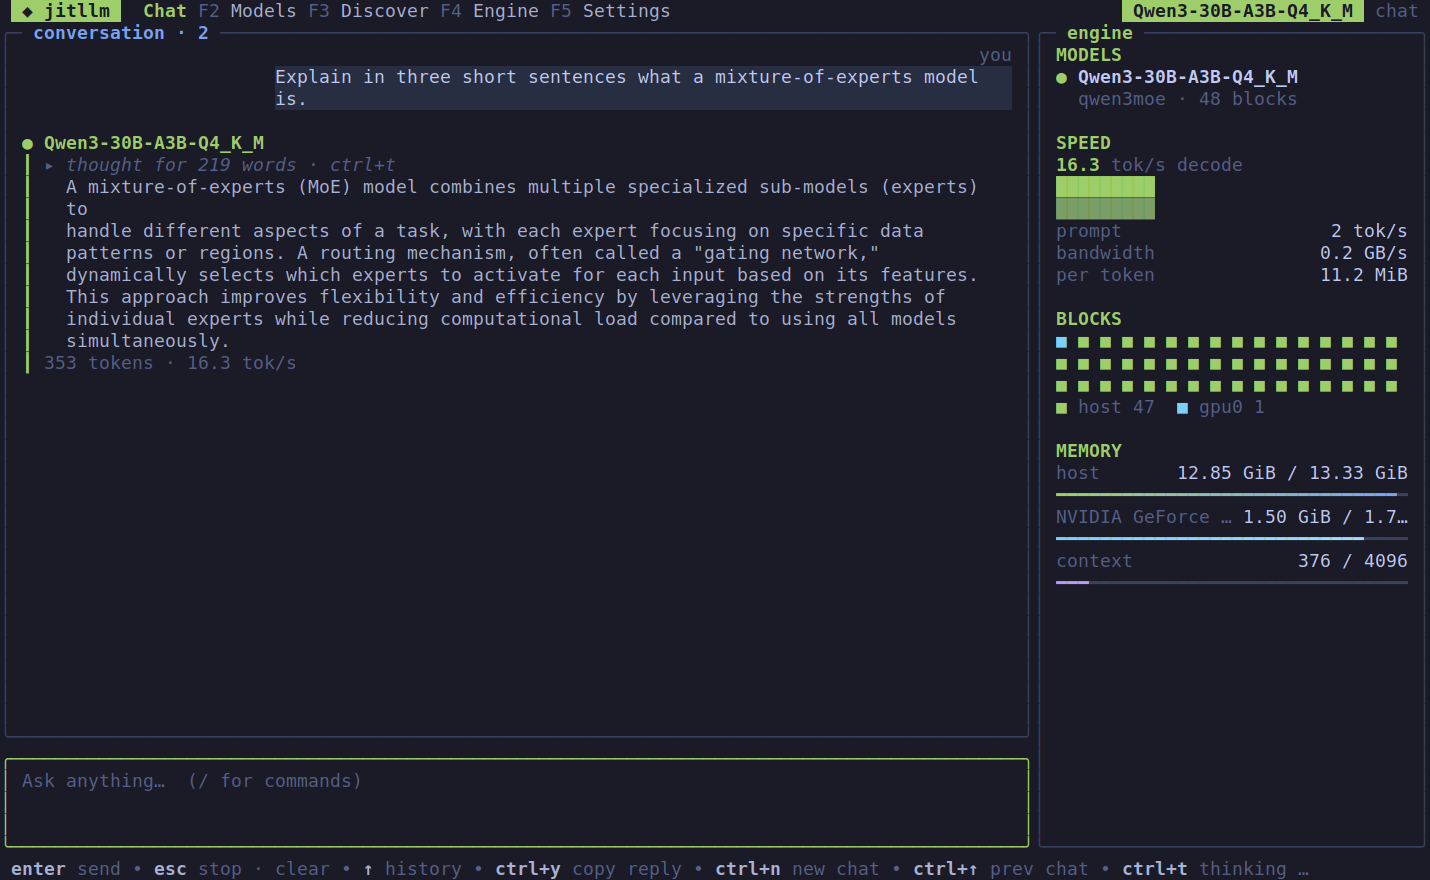
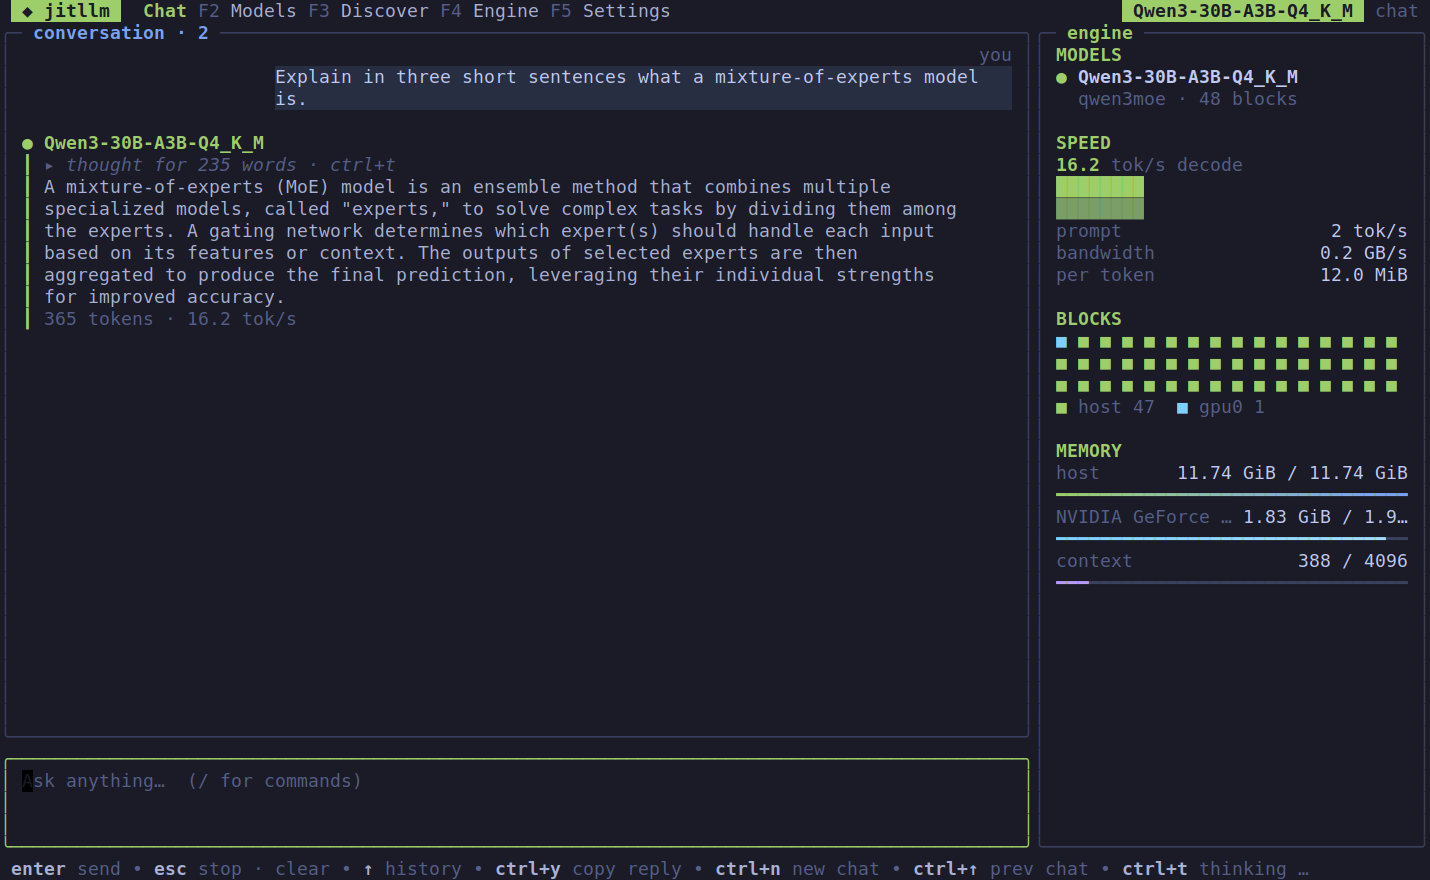
The terminal app's chat screenshot is retaken with the wrap fix

diff --git a/website/src/content/docs/docs/guides/terminal.md b/website/src/content/docs/docs/guides/terminal.md
@@ -35,7 +35,7 @@ The app paints its own background, so it looks the same whatever your terminal's
 
 <img src="/shots/tui-chat.png" width="1430" height="880" alt="The terminal app's Chat screen: a reply with its reasoning folded, and the engine panel with the decode rate, the blocks and memory" />
 
-The saved chats, the transcript, the prompt, and at the right the engine: the open models, the decode rate, which blocks run where and how full each memory is. Above, Qwen3-30B-A3B, a 30B mixture of experts, answers at 16.3 tokens a second on a laptop with a 4 GB GPU: one block on the card, the other 47 on the CPU, its experts paged from disk.
+The saved chats, the transcript, the prompt, and at the right the engine: the open models, the decode rate, which blocks run where and how full each memory is. Above, Qwen3-30B-A3B, a 30B mixture of experts, answers at 16.2 tokens a second on a laptop with a 4 GB GPU: one block on the card, the other 47 on the CPU, its experts paged from disk.
 
 | Key | Does |
 |---|---|

diff --git a/README.md b/README.md
@@ -108,7 +108,7 @@ and the conversation keeps its history across the move:
 ```
 
 <p align="center">
-<img src="website/public/shots/tui-chat.png" width="400" alt="The terminal app's Chat screen: Qwen3-30B-A3B answering at 16.3 tokens a second, the engine panel beside it">
+<img src="website/public/shots/tui-chat.png" width="400" alt="The terminal app's Chat screen: Qwen3-30B-A3B answering at 16.2 tokens a second, the engine panel beside it">
 <img src="website/public/shots/tui-engine.png" width="400" alt="The terminal app's Engine screen: every block and where it runs, the rate over time, memory and the pager">
 </p>
 

diff --git a/docs/tui.md b/docs/tui.md
@@ -16,7 +16,7 @@ for this run only; `-mouse` scrolls with the wheel, and the terminal's own text
 selection then needs shift. The app paints its own background, so use a
 terminal with 24-bit colour.
 
-![The Chat screen: Qwen3-30B-A3B answering at 16.3 tokens a second on a laptop with a 4 GB GPU, the engine panel beside the conversation](../website/public/shots/tui-chat.png)
+![The Chat screen: Qwen3-30B-A3B answering at 16.2 tokens a second on a laptop with a 4 GB GPU, the engine panel beside the conversation](../website/public/shots/tui-chat.png)
 
 ## Screens
 
